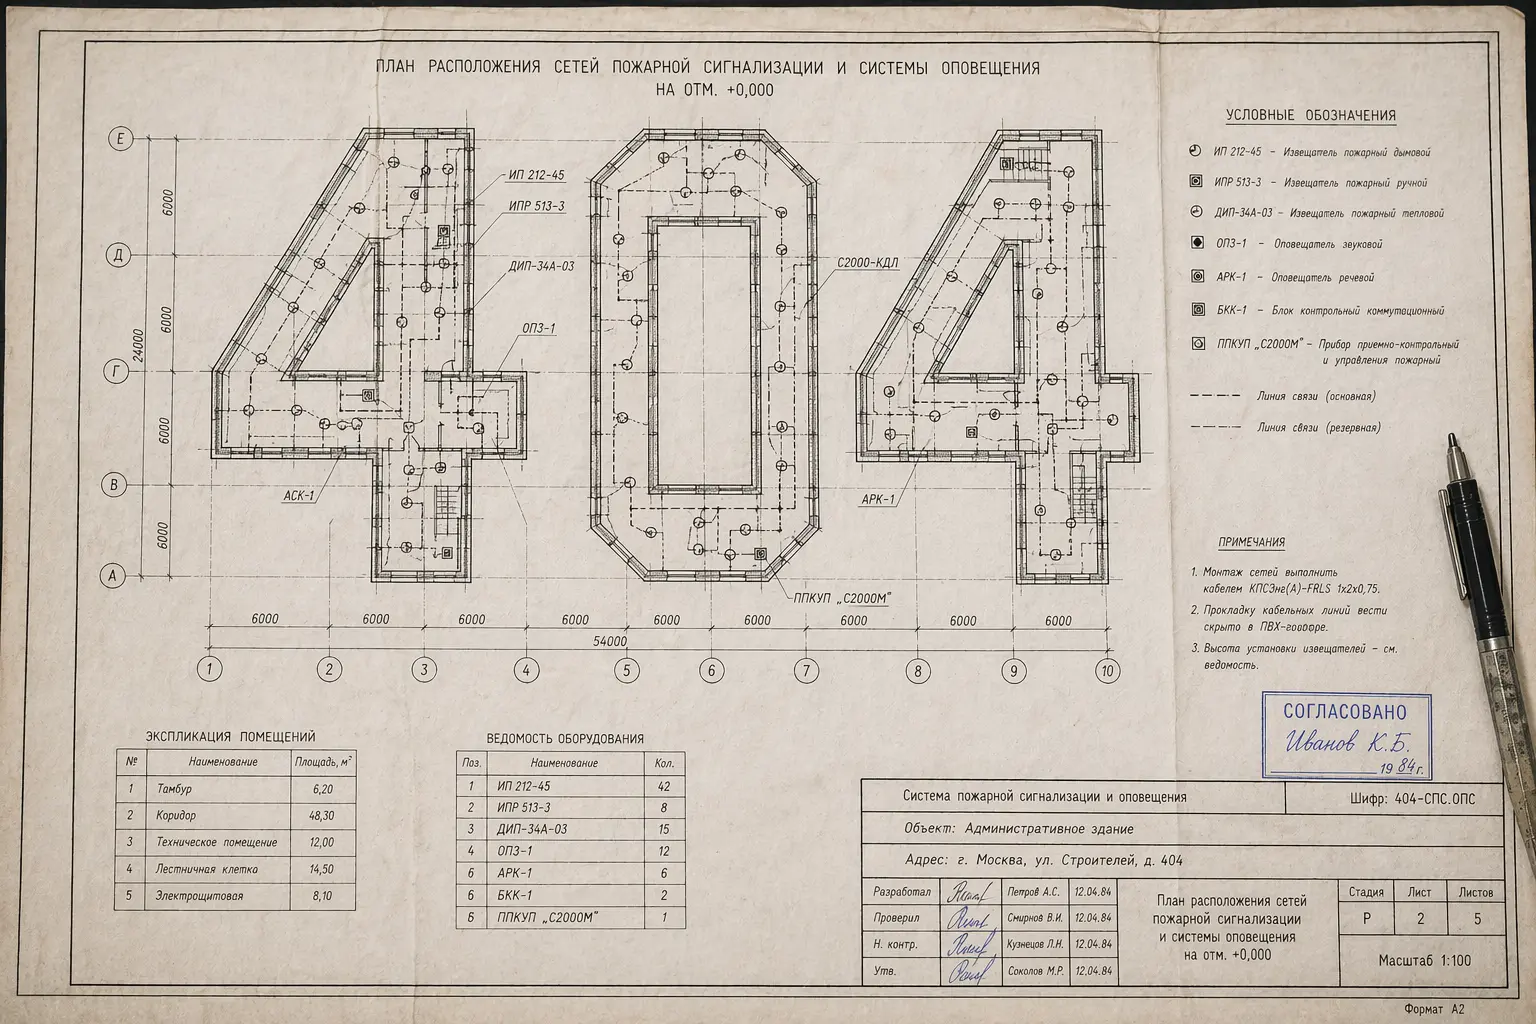
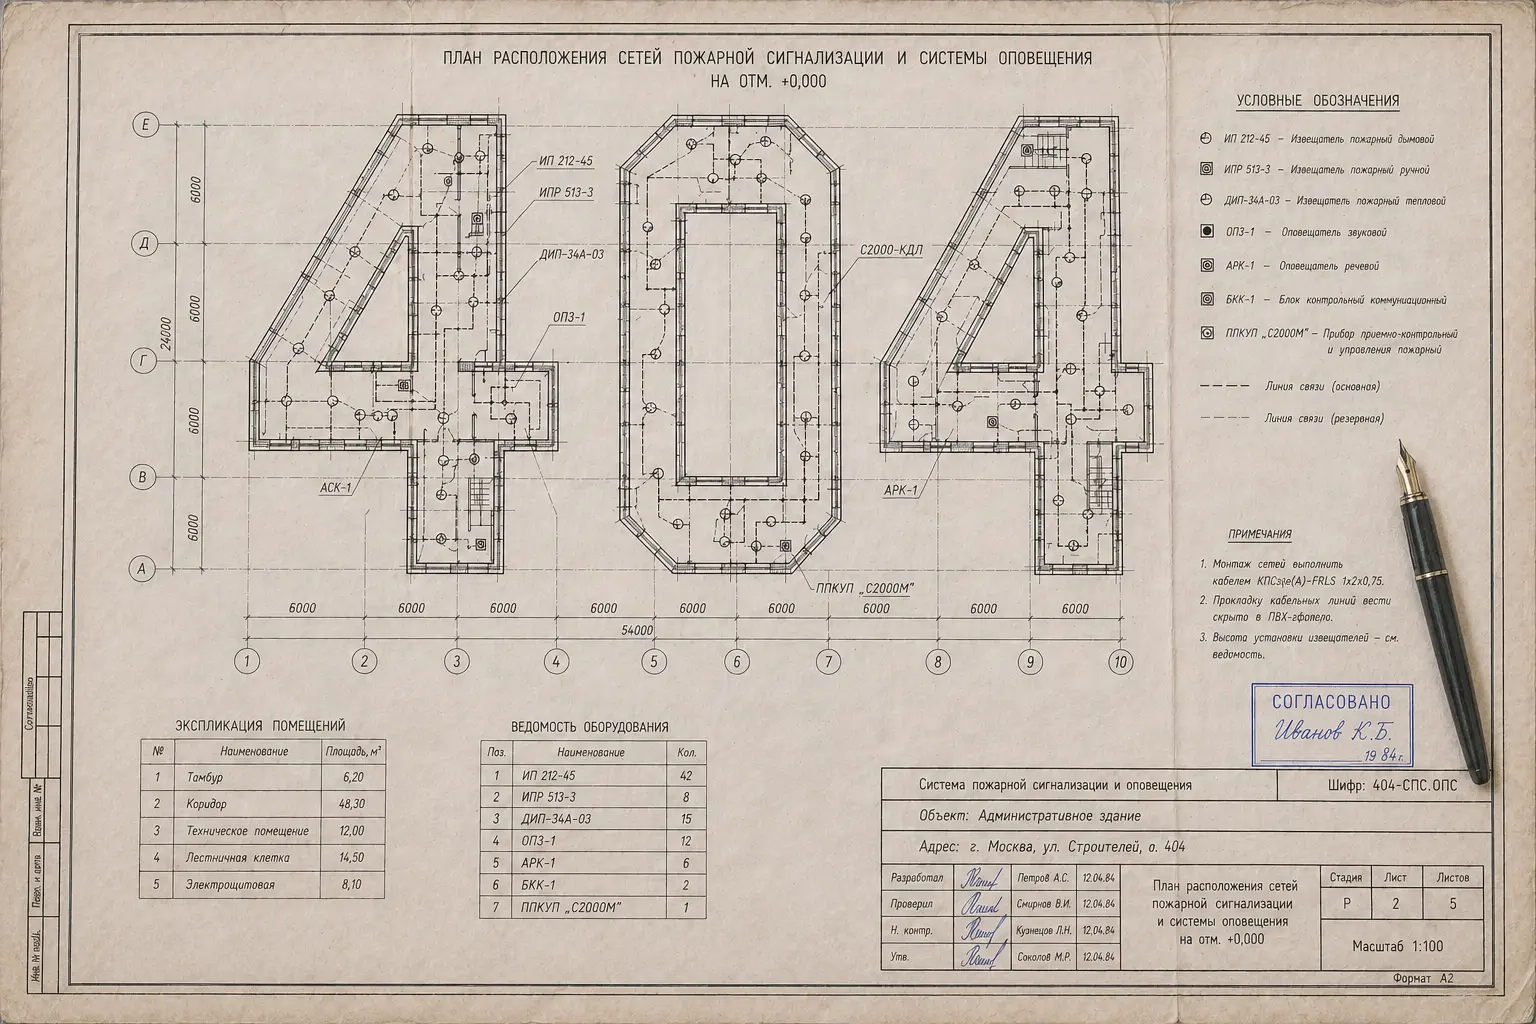
Update main page content

Changed region(s): [[0.0, 0.0, 1.0, 1.0], [0.2812, 0.6875, 0.4688, 0.9062]]

diff --git a/config/content/landing.ts b/config/content/landing.ts
@@ -2,15 +2,21 @@ export const landing = {
     categories: [
         {num: '01', id: 'bg-fire', title: 'Пожарная безопасность'},
         {num: '02', id: 'bg-alarm', title: 'Охранная сигнализация'},
-        {num: '03', id: 'bg-low-voltage', title: 'Слаботочные инженерные системы'},
-        {num: '04', id: 'bg-security-services', title: 'Охранные услуги'},
+        {num: '03', id: 'bg-low-voltage', title: 'Слаботочные системы'},
+        {num: '04', id: 'bg-security-services', title: 'Охрана объектов'},
     ],
-    eyebrow: "Системы безопасности",
-    heading: "Комплексные решения в сфере безопасности",
-    text: `ООО ПМО «Квадро-Арсенал» реализует инженерные
-        системы безопасности, противопожарные комплексы
-        и охранные решения для предприятий и объектов
-        различной сложности.`,
-    btn_call: "Позвонить нам",
-    btn_vacancy: "Вакансии",
+    eyebrow: "Проектирование и монтаж",
+    heading: "Системы безопасности для бизнеса и объектов",
+    text: `Проектируем, монтируем и обслуживаем системы
+        безопасности для предприятий и объектов.
+        Работаем в Электростали и Московской области.
+        Берем на себя весь цикл — от обследования до
+        круглосуточного мониторинга.`,
+    subnote: [
+        "20+ лет опыта",
+        "лицензии",
+        "собственный ПЦН"
+    ],
+    btn_primary: "Получить расчет",
+    btn_secondary: "Консультация",
 }

diff --git a/app/page.tsx b/app/page.tsx
@@ -70,13 +70,20 @@ function Page () {
                         <span className="promo-eyebrow">{landing.eyebrow}</span>
                         <h2 className="promo-heading">{landing.heading}</h2>
                         <p className="promo-text">{landing.text}</p>
+                        <div className="promo-subnote">
+                            {landing.subnote.map((item) => (
+                                <span key={item} className="promo-subnote__item">
+                                    {item}
+                                </span>
+                            ))}
+                        </div>
                         <div className="promo-actions">
-                            <Button mode="primary">{landing.btn_call}</Button>
-                            <Button mode="secondary">{landing.btn_vacancy}</Button>
+                            <Button mode="primary">{landing.btn_primary}</Button>
+                            <Button mode="secondary">{landing.btn_secondary}</Button>
                         </div>
                     </div>
                 </div>
-                <CopyrightBar />
+                <CopyrightBar/>
             </div>
         </>
     )

diff --git a/styles/landing.scss b/styles/landing.scss
@@ -31,7 +31,7 @@
     display: flex;
     flex-direction: column;
     justify-content: center;
-    max-width: 420px;
+    max-width: 480px;
     text-align: left;
     gap: 28px;
     @include glass-panel();
@@ -124,7 +124,31 @@
 .promo-actions {
   @include gap(12, 16);
   display: flex;
-  margin-top: 10px;
+}
+
+.promo-subnote {
+  display: flex;
+  flex-wrap: wrap;
+  gap: 12px;
+  margin: 28px 0;
+
+  &__item {
+    @include font-size(12, 14);
+    text-transform: uppercase;
+    letter-spacing: 0.05em;
+    font-weight: 600;
+    display: flex;
+    align-items: center;
+
+    &:not(:last-child)::after {
+      content: '';
+      width: 4px;
+      height: 4px;
+      background: #ff4d00;
+      border-radius: 50%;
+      margin-left: 10px;
+    }
+  }
 }
 
 .main-overlay {

diff --git a/app/not-found.tsx b/app/not-found.tsx
@@ -4,6 +4,7 @@ import notFoundImage from "@/app/_assets/images/not_found.webp";
 import {Metadata} from "next";
 import {CopyrightBar} from "@/components/CopyrightBar";
 import {Button} from "@/components/Button";
+import {Header} from "@/widgets/Header";
 import {not_found} from "@/config/content/not_found";
 import "@/styles/not_found.scss";
 
@@ -14,6 +15,7 @@ export const metadata: Metadata = {
 export default function NotFound() {
     return (
         <div className="not-found">
+            <Header />
             <div className="not-found__content">
                 <div className="not-found__visual">
                     <Image

diff --git a/widgets/Header/styles.scss b/widgets/Header/styles.scss
@@ -1,0 +1,37 @@
+@use "@/styles/_vars" as *;
+
+.header {
+  @include glass-panel(12);
+  position: absolute;
+  top: 15px;
+  left: 50%;
+  transform: translateX(-50%);
+  z-index: 15;
+
+  .logo {
+    margin-bottom: 0;
+    @include gap(8, 12);
+    &__image {
+      @include width(30, 50);
+    }
+    &__main-title {
+      @include font-size(16, 24);
+    }
+    &__sub-title {
+      @include font-size(9, 12);
+    }
+  }
+}
+
+@media (max-width: 992px) {
+  .header {
+    @include glass-panel(24, 0);
+    top: 0;
+    display: flex;
+    @include padding-x(20, 100);
+    width: 100%;
+    .logo {
+      margin: 0;
+    }
+  }
+}

diff --git a/styles/not_found.scss b/styles/not_found.scss
@@ -68,6 +68,7 @@
     &:hover {
       transform: rotateX(15deg) rotateY(-5deg) rotateZ(0deg) scale(1.02);
     }
+    border-radius: 6px;
   }
 
   &__info {
@@ -104,6 +105,7 @@
 @media (max-width: 992px) {
   .not-found {
     flex-direction: column;
+    padding-top: 80px;
     &__content {
       margin-bottom: auto;
       margin-top: auto;
@@ -118,6 +120,9 @@
       margin-top: -50px;
       padding: 24px;
       width: 100%;
+    }
+    .copyright {
+      padding-top: 80px;
     }
   }
 }

diff --git a/widgets/Header/Header.tsx b/widgets/Header/Header.tsx
@@ -1,0 +1,8 @@
+import {Logo} from "@/components/Logo";
+import "./styles.scss";
+
+export const Header = () => (
+    <div className="header">
+        <Logo />
+    </div>
+)

diff --git a/widgets/Header/index.ts b/widgets/Header/index.ts
@@ -1,0 +1,1 @@
+export { Header } from "./Header";
